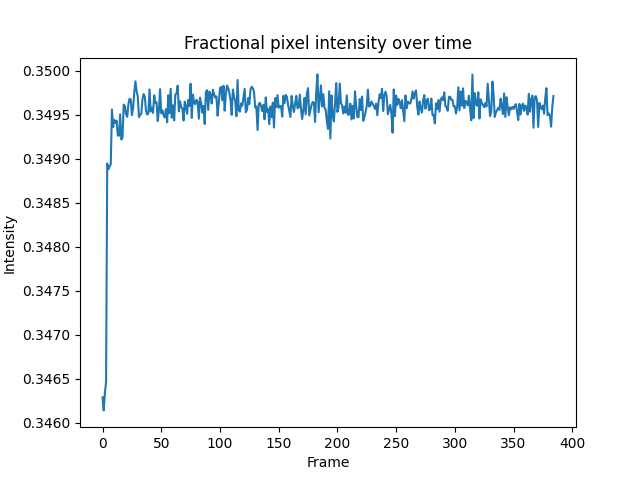
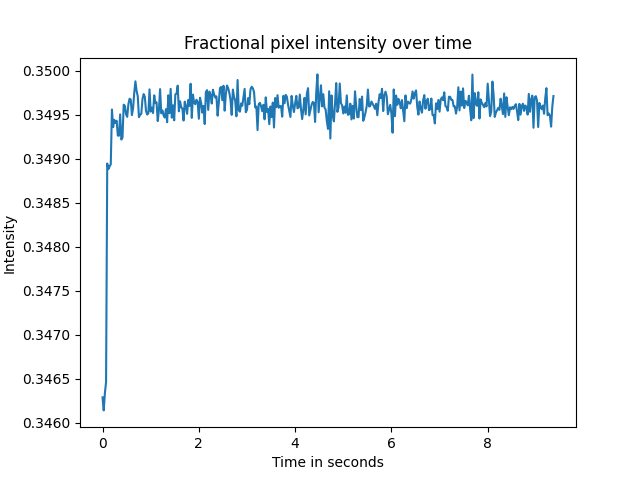
Put time in seconds on the x axis instead of frame number

diff --git a/pixelsum.py b/pixelsum.py
@@ -5,11 +5,14 @@ import matplotlib.pyplot as plt # Plotting
 import skvideo.io
 import sys
 from tqdm import tqdm # Progress bar
+from pprint import pprint
 
 filename = sys.argv[1]
 
 metadata = skvideo.io.ffprobe(filename)["video"]
+#pprint(metadata)
 n_frames = int(metadata["@nb_frames"])
+frame_rate = int(metadata["@r_frame_rate"].split("/")[0])
 
 # Calculate the maximium value per frame
 width = int(metadata["@width"])
@@ -24,9 +27,9 @@ for frame in tqdm(video, total=n_frames):
     results.append(frame.sum() / max_per_frame)
 
 results = np.array(results)
-plt.plot(results)
+plt.plot(np.arange(n_frames) / frame_rate, results)
 plt.title("Fractional pixel intensity over time")
-plt.xlabel("Frame")
+plt.xlabel("Time in seconds")
 plt.ylabel("Intensity")
 plt.savefig(filename + ".png")
 np.savetxt(filename + ".txt", results)
